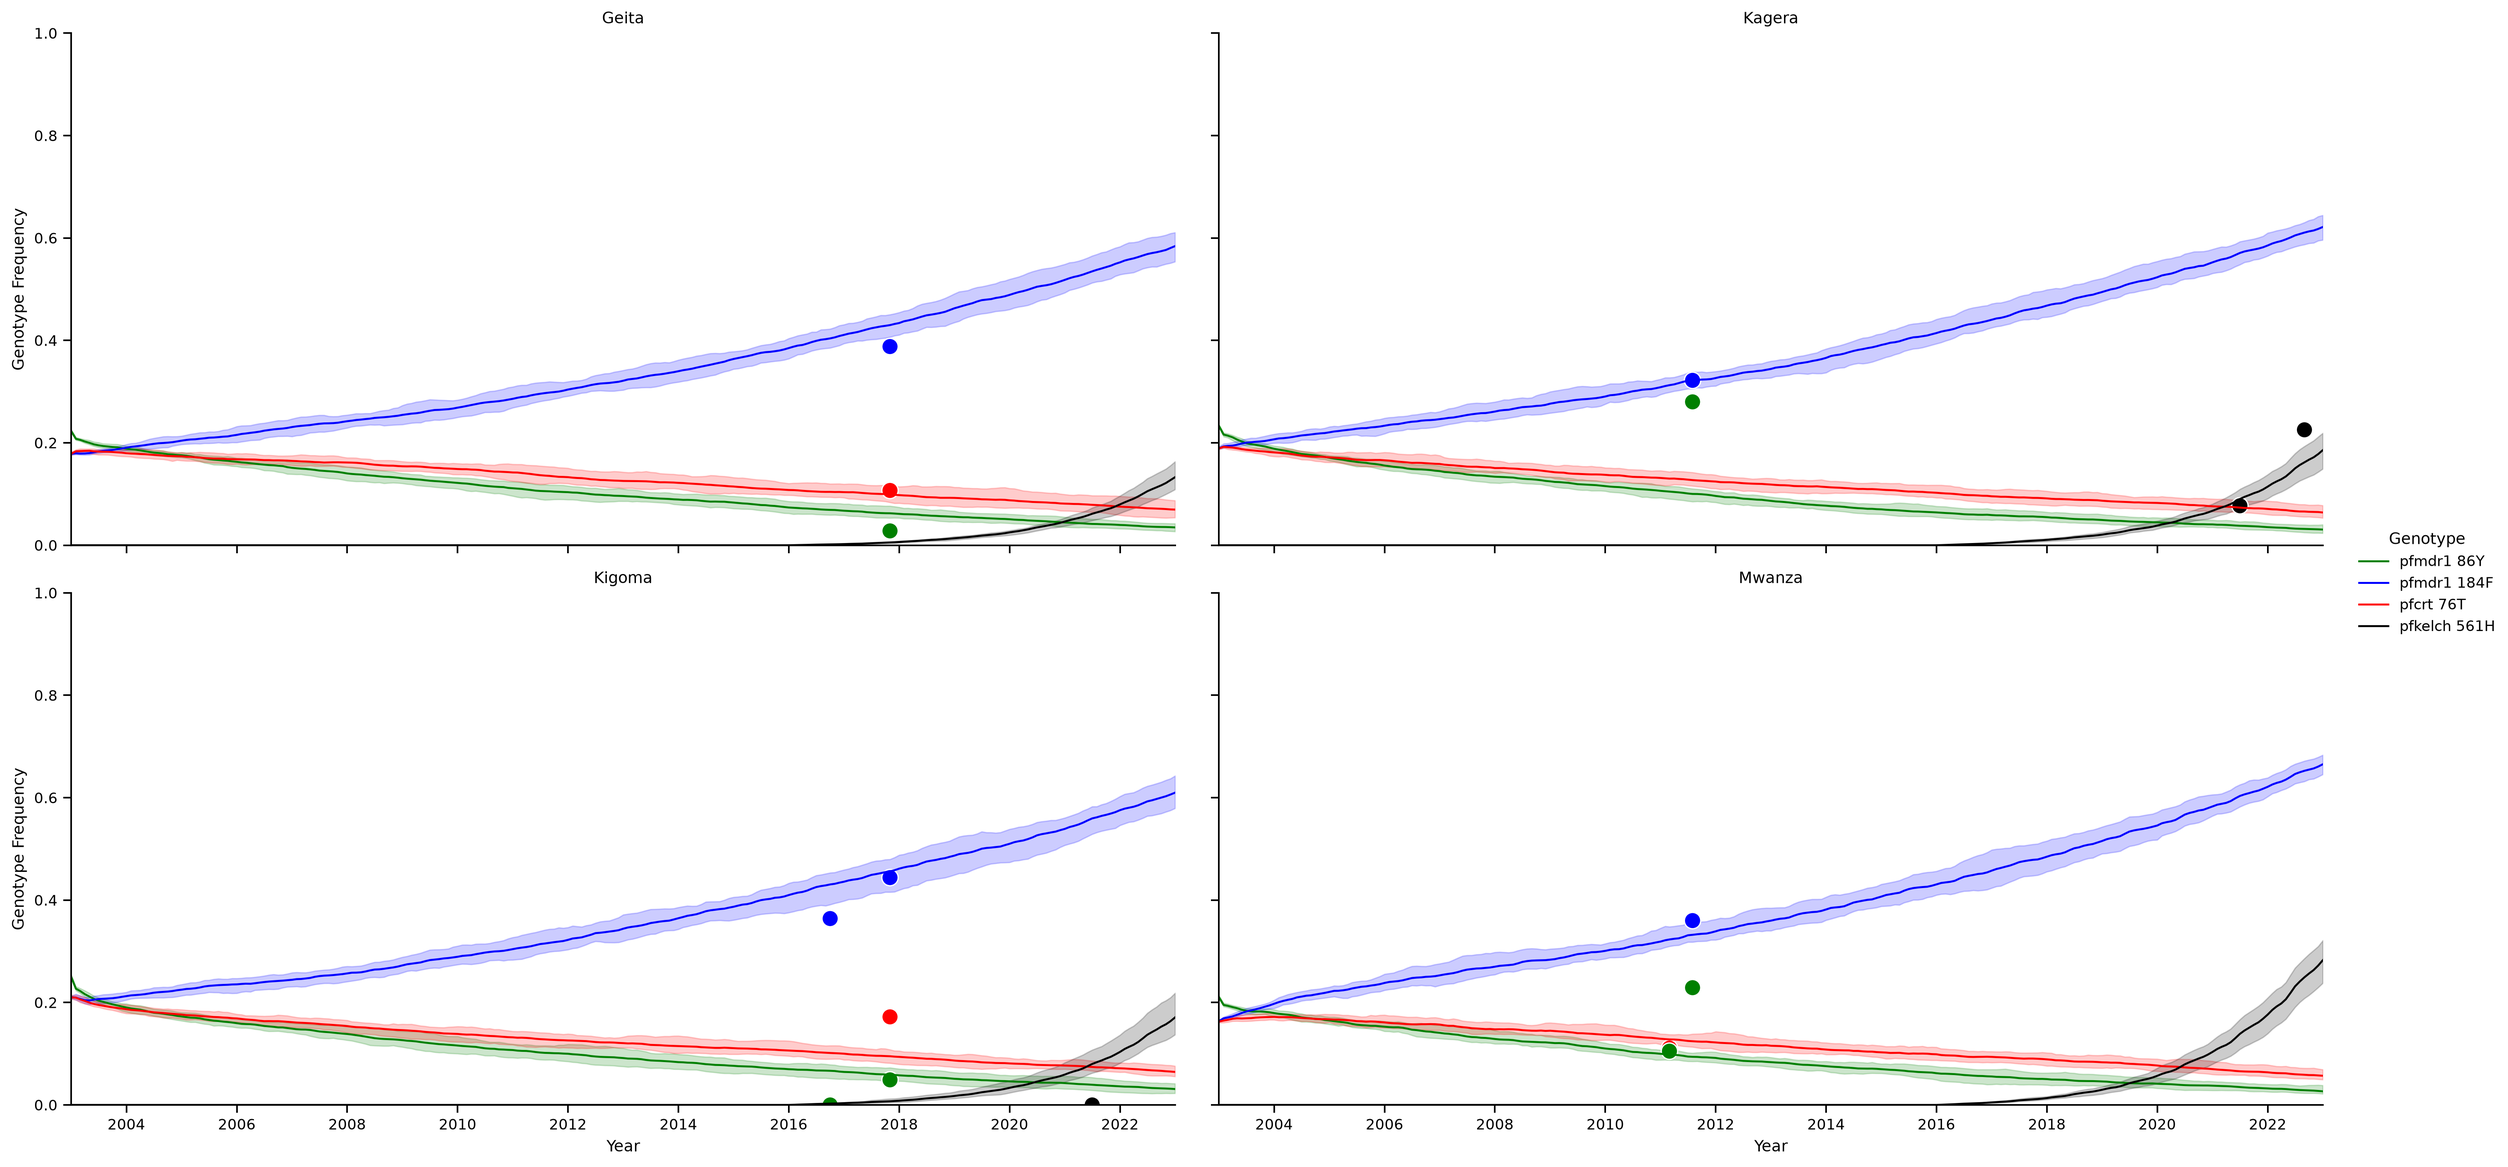
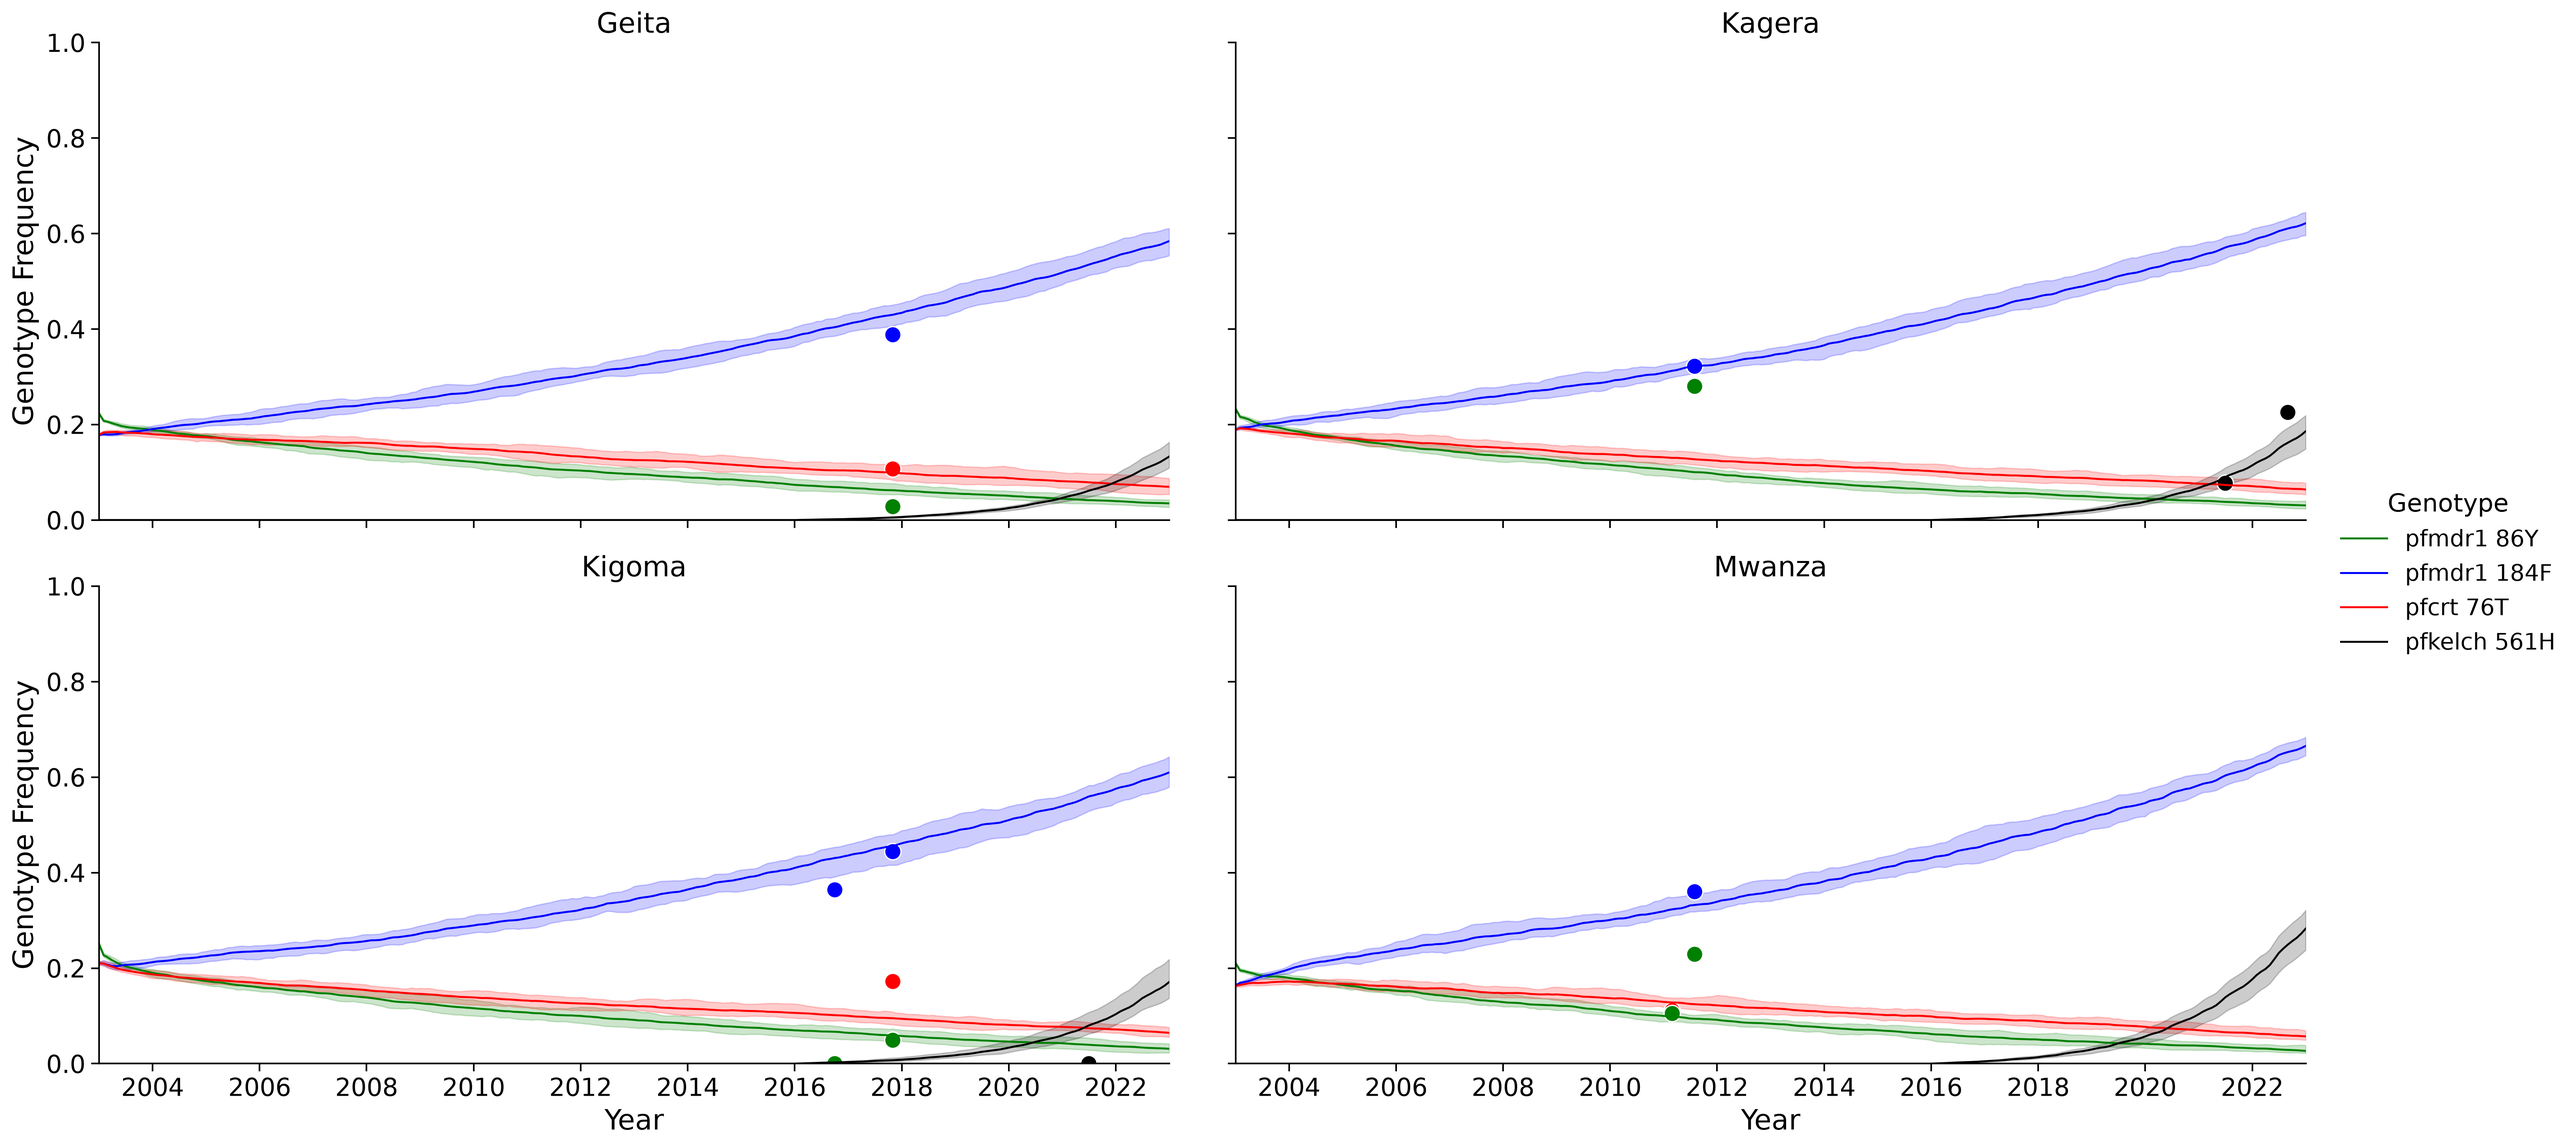
Update analysis summaries and figures

diff --git a/analysis/scripts/figure_04_private_market_effect.py b/analysis/scripts/figure_04_private_market_effect.py
@@ -3,6 +3,7 @@
 from __future__ import annotations
 
 import json
+import re
 from pathlib import Path
 
 import matplotlib.pyplot as plt
@@ -36,6 +37,16 @@ def format_labels(rows: list[list[str]]) -> list[str]:
     nonempty = [row for row in rows if row]
     if not nonempty:
         return []
+    # Hyphenate spaces within each label cell, while retaining the padded
+    # spaces between columns so the monospace columns stay aligned.
+    rows = [
+        [
+            re.sub(r"Delay-(\d+y)", r"\1-delay", re.sub(r"\s*-\s*", "-", cell).replace(" ", "-"))
+            for cell in row
+        ]
+        for row in rows
+    ]
+    nonempty = [row for row in rows if row]
     first_col_width = max(len(row[0]) for row in nonempty) + 1
     cell_width = 15
     formatted = []
@@ -43,12 +54,18 @@ def format_labels(rows: list[list[str]]) -> list[str]:
         if not row:
             formatted.append("")
             continue
-        line = f"{row[0]:<{first_col_width}} "
-        rest_cells = [f"{item:<{cell_width}}" for item in row[1:5]]
-        rest_cells.extend([" " * cell_width] * (4 - len(rest_cells)))
-        line += "".join(rest_cells)
-        if line.startswith("Kagera"):
-            line = line[:-7]
+        if row[0] == "Kagera-first":
+            line = (
+                f"{row[0]:<{first_col_width}} "
+                f"{row[1]:<{cell_width}}"
+                f"{row[2]}"
+            )
+            line = line.ljust(first_col_width + 1 + 4 * cell_width)
+        else:
+            line = f"{row[0]:<{first_col_width}} "
+            rest_cells = [f"{item:<{cell_width}}" for item in row[1:5]]
+            rest_cells.extend([" " * cell_width] * (4 - len(rest_cells)))
+            line += "".join(rest_cells)
         formatted.append(line)
     return formatted
 
@@ -118,6 +135,9 @@ def make_figure(setting_47: str, setting_10: str, output_relative: str) -> Path:
             colors_47[index] = "black"
 
     fig, (ax1, ax2) = plt.subplots(figsize=(16, 24), ncols=2, sharey=True)
+    xmin = min(comparison["rel_47"].min(), comparison["rel_10"].min())
+    xmax = max(comparison["rel_47"].max(), comparison["rel_10"].max())
+    ax1.set_xlim(xmin - 12, xmax + 10)
     ax1.barh(y, comparison["rel_10"].to_numpy(), color="#9ecae1", label="10% Private Market")
     ax1.barh(y, comparison["rel_47"].to_numpy(), color=colors_47, label="47% Private Market (reference)")
     ax1.axvline(0, color="black", linewidth=1)
@@ -128,9 +148,6 @@ def make_figure(setting_47: str, setting_10: str, output_relative: str) -> Path:
     ax1.xaxis.set_major_formatter(FuncFormatter(lambda value, _: f"{value:.0f}%"))
     ax1.set_xlabel("Reduction in treatment failures\ncompared to status quo AL use", fontsize=18)
     ax1.grid(axis="both", linestyle="--", alpha=0.6)
-    xmin = min(comparison["rel_47"].min(), comparison["rel_10"].min())
-    xmax = max(comparison["rel_47"].max(), comparison["rel_10"].max())
-    ax1.set_xlim(xmin - 12, xmax + 10)
     ax1.set_ylim(-0.5, len(order) - 0.5)
     ax1.tick_params(axis="x", labelsize=14)
     ax1.legend(

diff --git a/analysis/scripts/supplementary_figure_02_pfpr_validation.py b/analysis/scripts/supplementary_figure_02_pfpr_validation.py
@@ -62,11 +62,9 @@ def main() -> None:
         data=pixel_data, x="atlas_pfpr", y="model_pfpr", size="population",
         sizes=(30, 350), alpha=0.55, legend=False, ax=ax_a,
     )
-    sns.regplot(data=pixel_data, x="atlas_pfpr", y="model_pfpr", scatter=False, ax=ax_a,
-                line_kws={"linewidth": 2})
     ax_a.axline((0, 0), slope=1, linestyle="--", linewidth=1.5, color="black")
-    ax_a.set(xlim=(-1, 32), ylim=(-1, 32), xlabel="Atlas PfPR 2–10 in 2022 (%)",
-             ylabel="Mean simulated PfPR 2–10 in 2022 (%)", title="Pixel-level PfPR comparison")
+    ax_a.set(xlim=(-1, 32), ylim=(-1, 32), xlabel=r"MAP PfPR$_{2–10}$ in 2022 (%)",
+             ylabel=r"Mean simulated PfPR$_{2–10}$ in 2022 (%)", title="Pixel-level PfPR comparison")
     ax_a.text(0.02, 0.96, "A", transform=ax_a.transAxes, fontsize=18, fontweight="bold", va="top")
 
     district_order = sorted(DISTRICT_NAMES.values())
@@ -76,11 +74,11 @@ def main() -> None:
     )
     ax_b.axhline(0, linestyle="--", linewidth=1.5, color="black")
     ax_b.tick_params(axis="x", rotation=30)
-    ax_b.set(xlabel="District", ylabel="Model − Atlas PfPR 2–10\npercentage-point difference",
-             title="District-level model bias")
+    ax_b.set(xlabel="Region", ylabel="Model − MAP PfPR$_{2–10}$\npercentage-point difference",
+             title="Region-level model bias")
     ax_b.text(0.02, 0.96, "B", transform=ax_b.transAxes, fontsize=18, fontweight="bold", va="top")
 
-    fig.suptitle("Comparison of simulated PfPR 2–10 against Atlas estimates, 2022", fontsize=20, y=0.98)
+    fig.suptitle(r"Comparison of simulated PfPR$_{2–10}$ against MAP estimates, 2022", fontsize=20, y=0.98)
     fig.tight_layout()
     OUTPUT_FILE.parent.mkdir(parents=True, exist_ok=True)
     fig.savefig(OUTPUT_FILE, dpi=300, bbox_inches="tight")

diff --git a/analysis/scripts/supplementary_figure_11_12_aspy.py b/analysis/scripts/supplementary_figure_11_12_aspy.py
@@ -60,6 +60,18 @@ def plot_scenario(data: pd.DataFrame, scenario: str, output_name: str) -> Path:
         scenario_data["group"], categories=list(STRATEGY_GROUPS), ordered=True
     )
 
+    sns.set_context(
+        "paper",
+        font_scale=1.4,
+        rc={
+            "axes.titlesize": 15,
+            "axes.labelsize": 14,
+            "xtick.labelsize": 12,
+            "ytick.labelsize": 12,
+            "legend.fontsize": 11,
+            "legend.title_fontsize": 12,
+        },
+    )
     grid = sns.relplot(
         data=scenario_data,
         x="date",
@@ -76,7 +88,8 @@ def plot_scenario(data: pd.DataFrame, scenario: str, output_name: str) -> Path:
         errorbar=("pi", 90),
         facet_kws={"sharey": True, "sharex": True},
     )
-    grid.set_axis_labels("Year", "Hypothetical Pyronaridine Mutant Frequency")
+    grid.set_axis_labels("Year", "")
+    grid.figure.supylabel("Hypothetical Pyronaridine Mutant Frequency", x=0.01)
     grid.set(xlim=(pd.Timestamp("2025-01-01"), pd.Timestamp("2032-01-01")), ylim=(0, 0.1))
 
     for ax, group_name in zip(grid.axes.flat, STRATEGY_GROUPS):
@@ -95,7 +108,7 @@ def plot_scenario(data: pd.DataFrame, scenario: str, output_name: str) -> Path:
             y = float(by_date.loc[nearest_date]) + (strategy_index - 1) * 0.003
             aspy_label = next(part for part in strategy.split("-") if part.startswith("ASPY")).split("_")[0]
             color = tuple(max(0, channel - 0.2) for channel in palette[strategy])
-            ax.text(pd.Timestamp("2031-01-01"), y, aspy_label, fontsize=8, ha="left", va="center", color=color)
+            ax.text(pd.Timestamp("2031-01-01"), y, aspy_label, fontsize=11, ha="left", va="center", color=color)
 
     if grid._legend is not None:
         grid._legend.remove()

diff --git a/analysis/scripts/ntfs_aspy_summary.py b/analysis/scripts/ntfs_aspy_summary.py
@@ -75,6 +75,26 @@ def main() -> None:
         pooled_replicates="size",
     ).reset_index()
     averages = averages.merge(pooled, on=["private_market", "policy_group"], validate="one_to_one")
+
+    # Add a combined summary for the six two-ACT and three three-ACT
+    # ASAQ-based policies discussed together in the manuscript.
+    all_nine = result.groupby("private_market", sort=False).agg(
+        policies=("scenario", "count"),
+        replicates_per_policy=("replicates", "min"),
+        average_of_policy_medians=("median_monthly_tf", "mean"),
+        lowest_policy_reduction_pct=("reduction_vs_status_quo_pct", "min"),
+        highest_policy_reduction_pct=("reduction_vs_status_quo_pct", "max"),
+    ).reset_index()
+    all_nine["policy_group"] = "all_nine_ASAQ_based_ASPY_MFT"
+    pooled_all_nine = pd.concat(replicate_parts, ignore_index=True).groupby(
+        "private_market", sort=False
+    ).monthly_tf.agg(
+        pooled_replicate_mean_monthly_tf="mean",
+        pooled_replicate_median_monthly_tf="median",
+        pooled_replicates="size",
+    ).reset_index()
+    all_nine = all_nine.merge(pooled_all_nine, on="private_market", validate="one_to_one")
+    averages = pd.concat([averages, all_nine[averages.columns]], ignore_index=True)
     averages.to_csv(average_output, index=False, float_format="%.1f")
     for market, group in result.groupby("private_market", sort=False):
         print(f"\nPrivate market: {market}")

diff --git a/analysis/scripts/supplementary_figure_16_treatment_failure_trajectories.py b/analysis/scripts/supplementary_figure_16_treatment_failure_trajectories.py
@@ -2,6 +2,7 @@
 
 from pathlib import Path
 
+import matplotlib.dates as mdates
 import matplotlib.pyplot as plt
 import pandas as pd
 
@@ -115,6 +116,8 @@ def main() -> None:
                 )
                 ax.set_title(PUBLICATION_LABELS[scenario], fontsize=10)
                 ax.set_xlim(pd.Timestamp("2024-01-01"), pd.Timestamp("2032-01-01"))
+                ax.xaxis.set_major_locator(mdates.YearLocator(2))
+                ax.xaxis.set_major_formatter(mdates.DateFormatter("%Y"))
                 ax.axvline(pd.Timestamp("2026-01-01"), color="black", linestyle="--", linewidth=1.0, alpha=0.7)
                 ax.grid(True, which="major", axis="both", linewidth=0.5, alpha=0.5)
                 ax.tick_params(axis="x", rotation=45)

diff --git a/analysis/scripts/supplementary_figure_03_genotype_calibration.py b/analysis/scripts/supplementary_figure_03_genotype_calibration.py
@@ -109,7 +109,18 @@ def main() -> None:
     plot_data = extract_plot_data(all_data)
     reference["date"] = pd.to_datetime(reference["date"]).dt.date
 
-    sns.set_context("paper")
+    sns.set_context(
+        "paper",
+        font_scale=1.6,
+        rc={
+            "axes.titlesize": 18,
+            "axes.labelsize": 17,
+            "xtick.labelsize": 15,
+            "ytick.labelsize": 15,
+            "legend.fontsize": 14,
+            "legend.title_fontsize": 15,
+        },
+    )
     grid = sns.relplot(
         data=plot_data,
         x="datetime",

diff --git a/analysis/scripts/supplementary_figure_04_genotype_calibration.py b/analysis/scripts/supplementary_figure_04_genotype_calibration.py
@@ -109,7 +109,18 @@ def main() -> None:
     plot_data = extract_plot_data(all_data)
     reference["date"] = pd.to_datetime(reference["date"]).dt.date
 
-    sns.set_context("paper")
+    sns.set_context(
+        "paper",
+        font_scale=1.6,
+        rc={
+            "axes.titlesize": 18,
+            "axes.labelsize": 17,
+            "xtick.labelsize": 15,
+            "ytick.labelsize": 15,
+            "legend.fontsize": 14,
+            "legend.title_fontsize": 15,
+        },
+    )
     grid = sns.relplot(
         data=plot_data,
         x="datetime",

diff --git a/analysis/scripts/supplementary_figure_05_genotype_calibration.py b/analysis/scripts/supplementary_figure_05_genotype_calibration.py
@@ -109,7 +109,18 @@ def main() -> None:
     plot_data = extract_plot_data(all_data)
     reference["date"] = pd.to_datetime(reference["date"]).dt.date
 
-    sns.set_context("paper")
+    sns.set_context(
+        "paper",
+        font_scale=1.6,
+        rc={
+            "axes.titlesize": 18,
+            "axes.labelsize": 17,
+            "xtick.labelsize": 15,
+            "ytick.labelsize": 15,
+            "legend.fontsize": 14,
+            "legend.title_fontsize": 15,
+        },
+    )
     grid = sns.relplot(
         data=plot_data,
         x="datetime",

diff --git a/analysis/scripts/supplementary_figure_06_genotype_calibration.py b/analysis/scripts/supplementary_figure_06_genotype_calibration.py
@@ -109,7 +109,18 @@ def main() -> None:
     plot_data = extract_plot_data(all_data)
     reference["date"] = pd.to_datetime(reference["date"]).dt.date
 
-    sns.set_context("paper")
+    sns.set_context(
+        "paper",
+        font_scale=1.6,
+        rc={
+            "axes.titlesize": 18,
+            "axes.labelsize": 17,
+            "xtick.labelsize": 15,
+            "ytick.labelsize": 15,
+            "legend.fontsize": 14,
+            "legend.title_fontsize": 15,
+        },
+    )
     grid = sns.relplot(
         data=plot_data,
         x="datetime",

diff --git a/analysis/README.md b/analysis/README.md
@@ -132,4 +132,4 @@ Run `python3 analysis/scripts/supplementary_figure_01_seasonality_calibration.py
 - Inputs: `data/processed/supplementary_figure_02/calibration_data.csv` and `district_pfpr_comparison.csv`.
 - Output: `../figures/supplementary/supplementary-figure-02.png`.
 
-Run `python3 analysis/scripts/supplementary_figure_02_pfpr_validation.py` from the repository root. The plot compares pixel-level PfPR estimates and the district-level model-minus-Atlas differences.
+Run `python3 analysis/scripts/supplementary_figure_02_pfpr_validation.py` from the repository root. The plot compares pixel-level PfPR estimates and the district-level model-minus-MAP differences.
